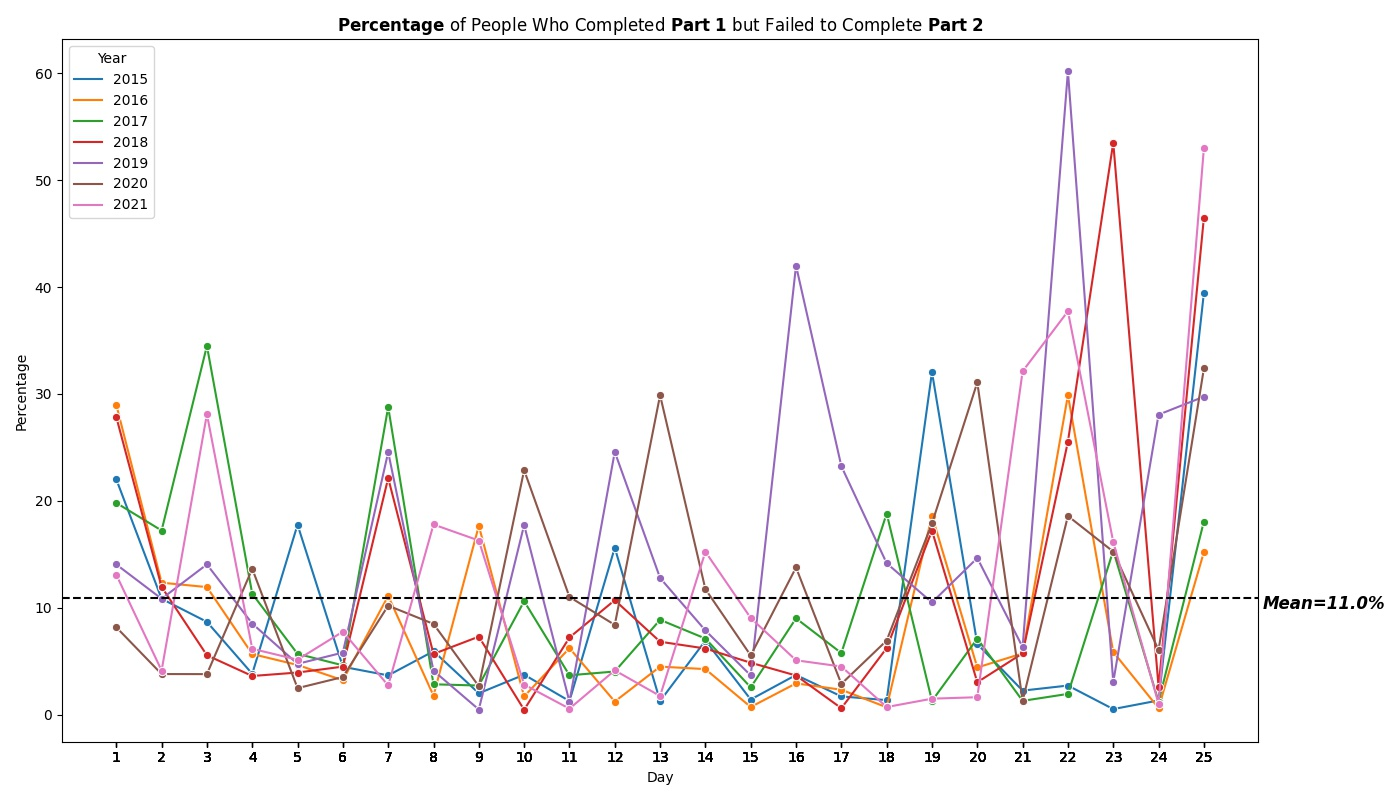
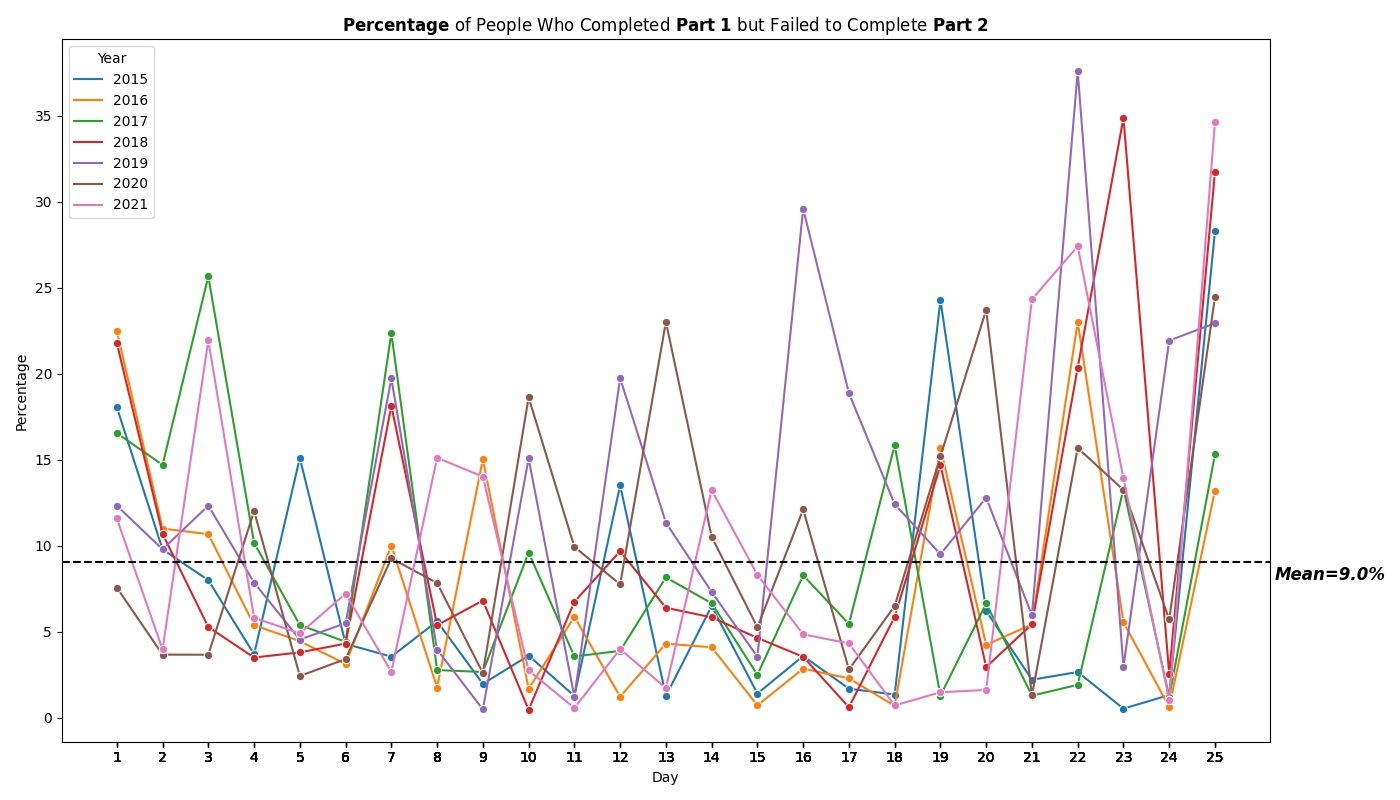
Add new graphs

diff --git a/Visualisation/visualisation.py b/Visualisation/visualisation.py
@@ -5,12 +5,13 @@ import seaborn as sns
 
 def get_percentage_of_part_2():
     df = pd.read_excel('/Users/charliebrowning/PycharmProjects/aoc_analysis/aoc_star_data.xlsx')
-    df['Percentage'] = (df['Part2']/df['Part1'])*100
+    df['Overall'] = df['Part1'] + df['Part2']
+    df['Percentage'] = (df['Part2']/df['Overall'])*100
 
     palette = sns.color_palette()[:7]
     plt.figure(figsize=(14, 8))
     plt.xticks(df['Day'])
-    sns.lineplot(data=df, x='Day', y='Percentage', hue='Year', palette=palette, marker='o')
+    sns.lineplot(data=df, x='Day', y='Percentage', hue='Year', palette=palette, marker='o', sort='Year')
     plt.axhline(df['Percentage'].mean(), linestyle='--', color='black')
     plt.text(x=26.3, y=df['Percentage'].mean()-1, s=f"Mean={round(df['Percentage'].mean(), 0)}%",
              fontdict={
@@ -22,4 +23,44 @@ def get_percentage_of_part_2():
     plt.savefig('part1_vs_part2.JPEG')
 
 
-get_percentage_of_part_2()
+def overall_users():
+    df = pd.read_excel('/Users/charliebrowning/PycharmProjects/aoc_analysis/aoc_star_data.xlsx')
+    df['Overall'] = df['Part1'] + df['Part2']
+    for year in list(dict.fromkeys(list(df['Year']))):
+        temp_df = df[df['Year'] == year]
+        sns.barplot(data=temp_df, y='Day', x='Overall', color='blue', orient='h')
+        plt.title("Overall Users Per Day " + fr"$\bf{year}$")
+        plt.grid(axis='x')
+        plt.savefig(f"{year}_overall_users.JPEG")
+        plt.clf()
+
+
+def overall_percentage_change_in_users():
+    df = pd.read_excel('/Users/charliebrowning/PycharmProjects/aoc_analysis/aoc_star_data.xlsx')
+    df['Overall'] = df['Part1'] + df['Part2']
+    for year in list(dict.fromkeys(list(df['Year']))):
+        temp_df = df[df['Year'] == year]
+        temp_df = temp_df.reset_index()
+        change = []
+        for i in range(len(temp_df['Overall'][:-1])):
+            change.append(-(((temp_df['Overall'][i + 1] / temp_df['Overall'][i])-1) * 100))
+        change.append(0)
+        temp_df['Change'] = change
+        plt.figure(figsize=(14, 8))
+        sns.lineplot(data=temp_df, x='Day', y='Change', color='blue')
+        plt.title("Overall Users Per Day " + fr"$\bf{year}$")
+        plt.grid(axis='y')
+        for record in range(len(temp_df)):
+            if temp_df['Change'][record] == max(temp_df['Change']):
+                highest = f"Largest Change: Day {temp_df['Day'][record]}={round(temp_df['Change'][record], 0)}%"
+        plt.text(x=19, y=max(temp_df['Change']), s=f"{highest}\n*largest change usually represents the \nday after a difficult challenger", fontdict={'weight': 'bold',
+                                                                        'size': 10})
+        plt.gca().spines['top'].set_visible(False)
+        plt.gca().spines['right'].set_visible(False)
+        plt.xticks(df['Day'])
+        plt.tight_layout()
+        plt.savefig(f"{year}_percentage_change_users.JPEG")
+        plt.clf()
+
+
+overall_percentage_change_in_users()
